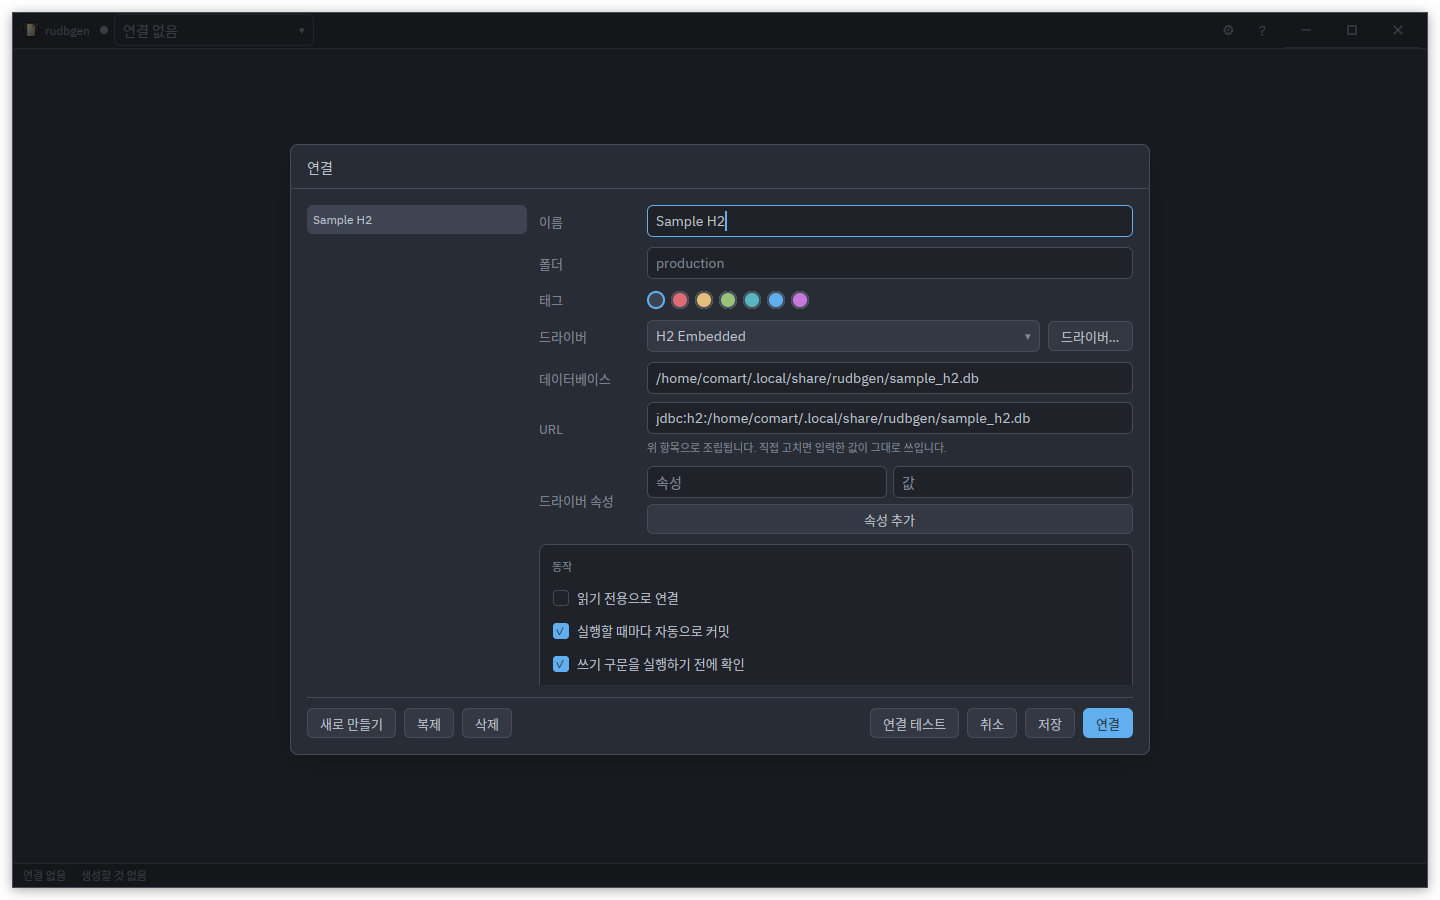
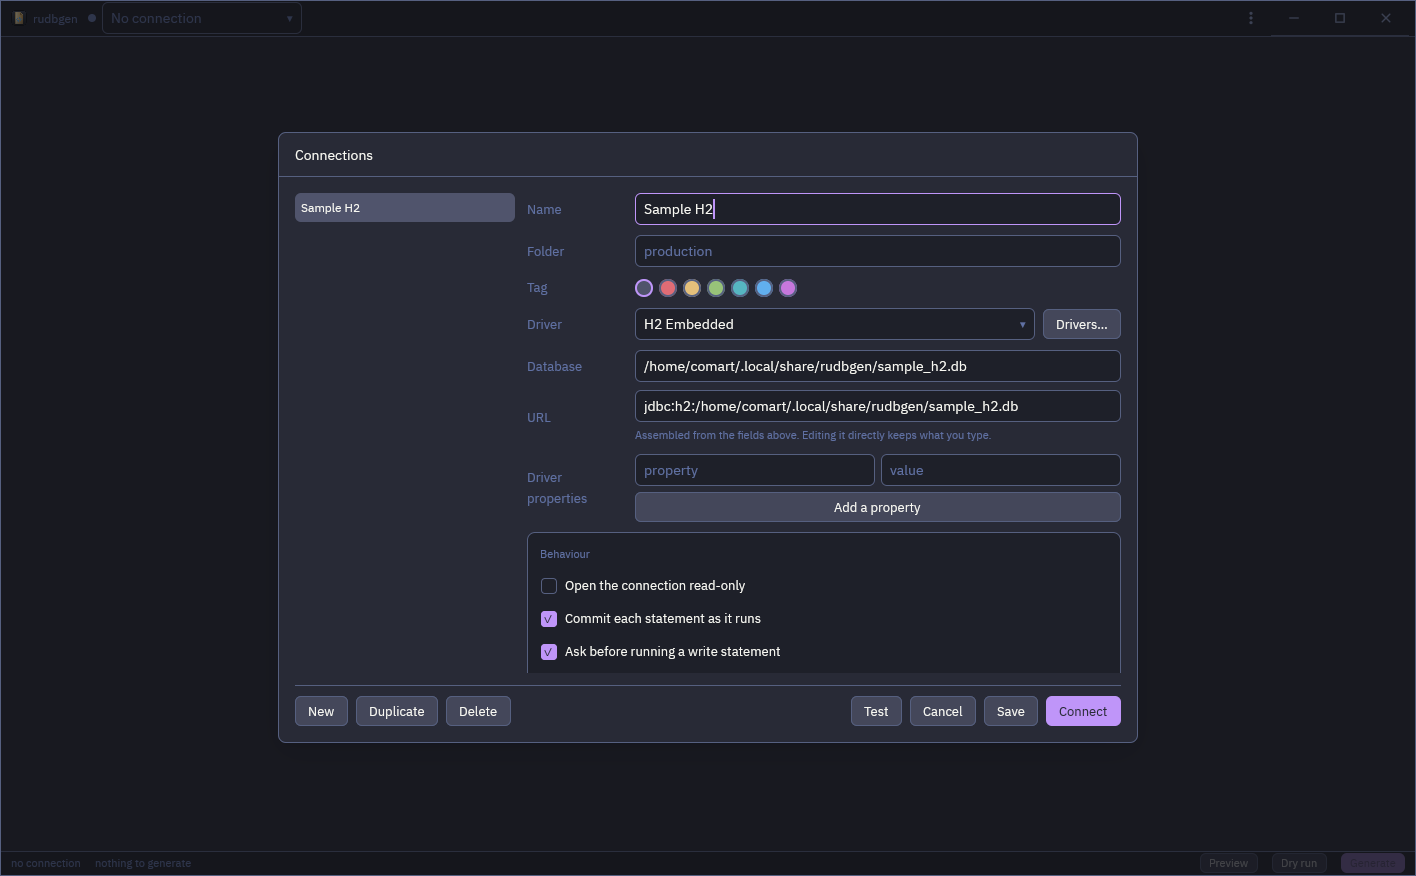
Screenshots: every capture re-taken in the English interface
All twelve, staged programmatically against the sample H2 and cropped
to the window frame as status.md prescribes — connection-dialog.png
finally among the cropped. import.png is staged from the import crate's
synthetic test fixture, so the checklist has something worth showing.

diff --git a/docs/status.md b/docs/status.md
@@ -288,10 +288,11 @@ Two things a first tag will want that no milestone owns:
   band for the drop shadow all round. Every one of them is now cropped to the
   window's own frame — the fully opaque part of an RGBA capture, which is
   exactly the window — and a new capture has to be cropped the same way, or a
-  strip of whatever was behind the window composites into the edge. `welcome.png`
-  was re-taken with M5: the *Import from jdbgen…* button it used to show greyed
-  is live now, and it appears only when there is a configuration to import from.
-  `driver-custom-queries.png` was re-taken and cropped the same way once the
-  custom-query fields became `rudbgen-editor` `EditorView`s with SQL
-  highlighting instead of plain `TextInput` fields; `connection-dialog.png` is
-  still the old uncropped capture and is owed the same pass.
+  strip of whatever was behind the window composites into the edge. All twelve
+  were re-taken together after M5 — in the **English** interface, where earlier
+  captures were of the Korean one — and every one now carries that crop,
+  `connection-dialog.png` included, which used to owe it. `import.png` is staged
+  from `crates/rudbgen-import/tests/vectors/config.json` (the synthetic fixture)
+  rather than from a real jdbgen configuration, so its checklist has something
+  worth showing; the master password it unlocks with is the one in
+  `import_dialog.rs`'s tests.
